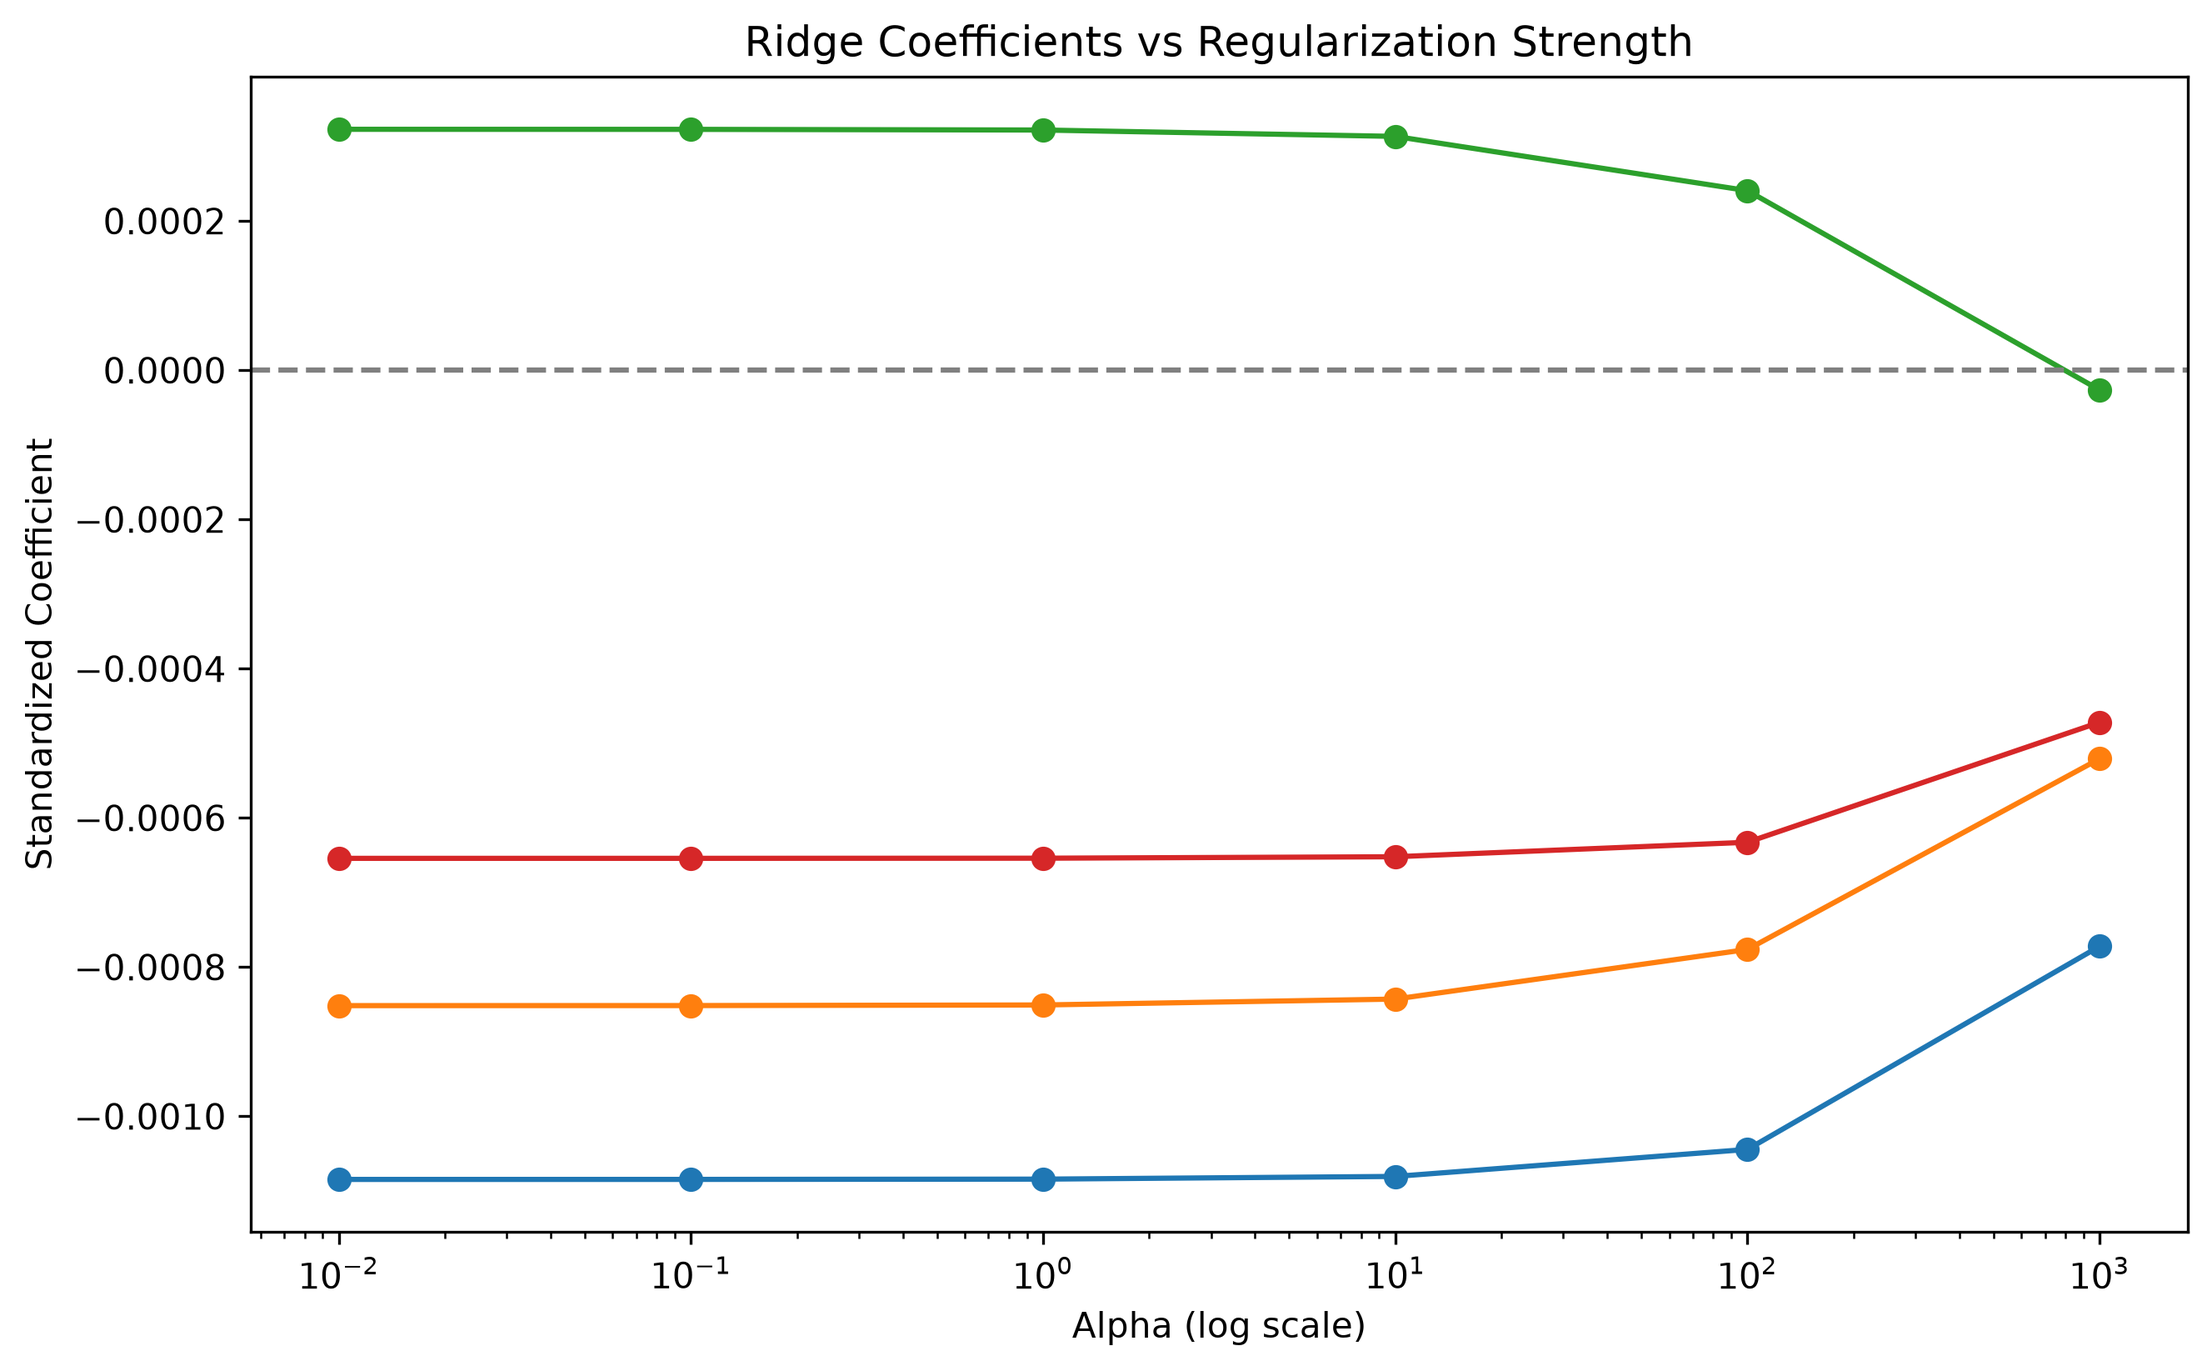
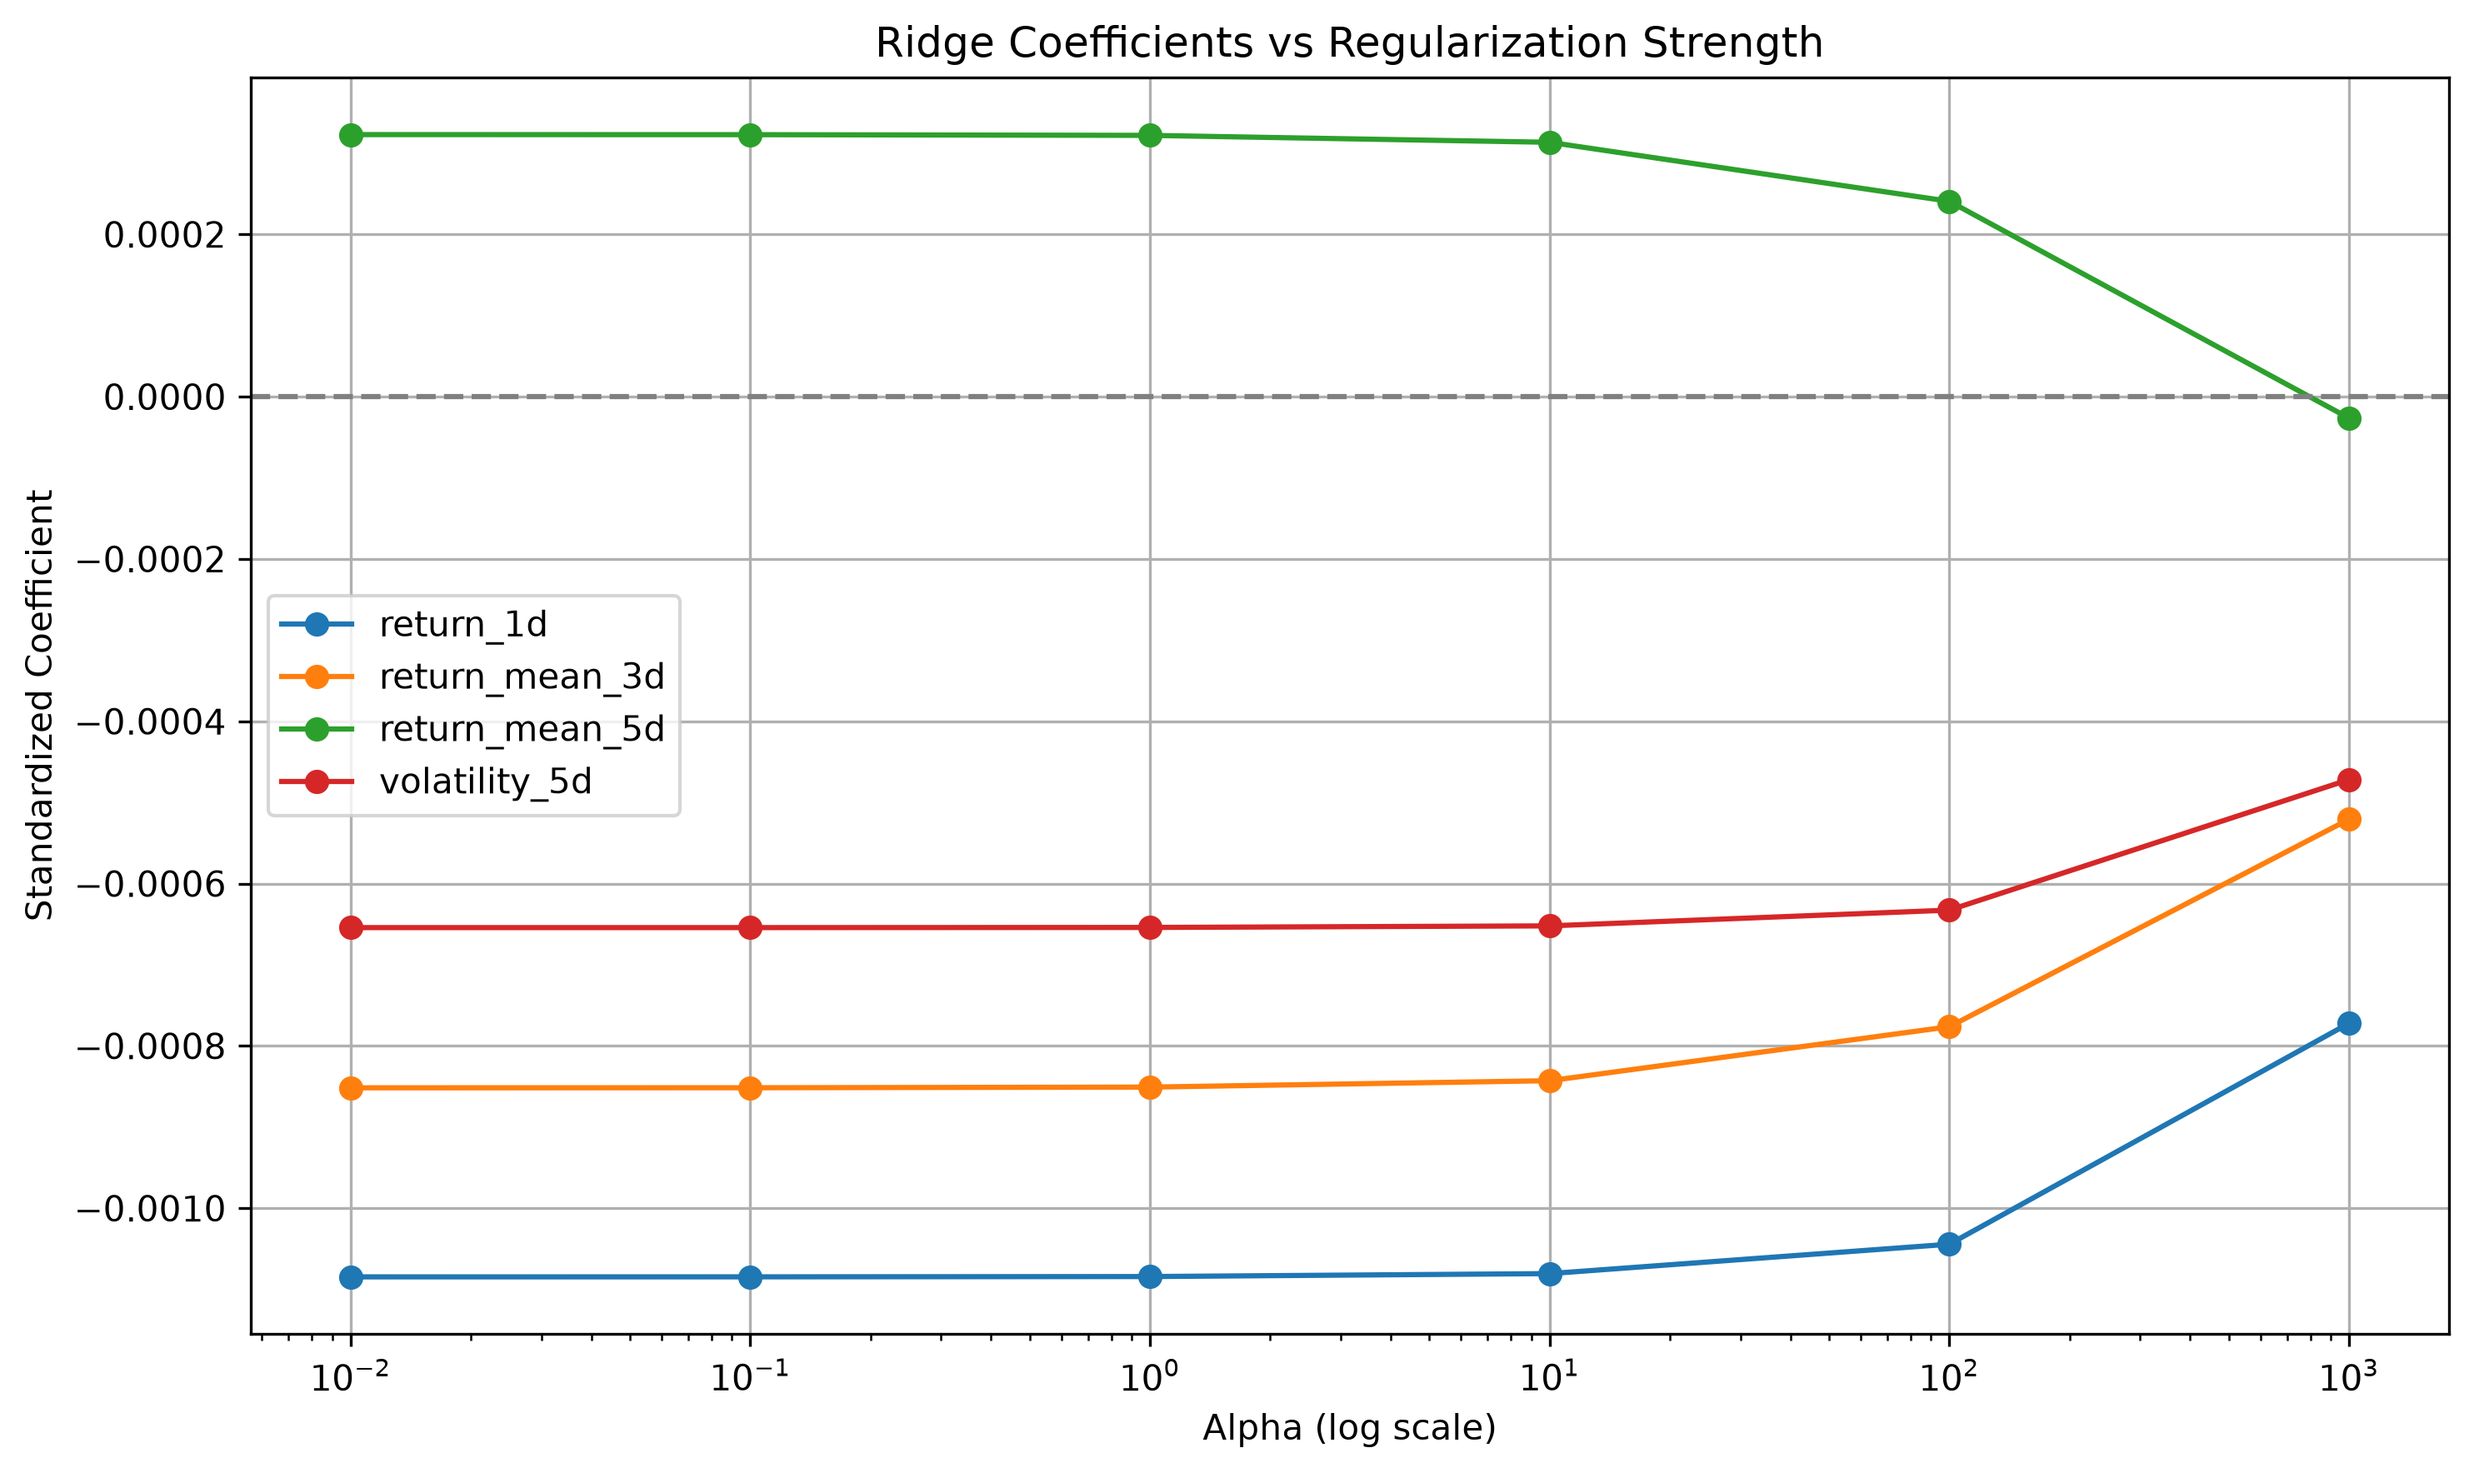
Fix visualization layout

diff --git a/src/visualization.py b/src/visualization.py
@@ -4,7 +4,7 @@ from features import prepare_data
 from sklearn.pipeline import Pipeline
 from sklearn.preprocessing import StandardScaler
 from sklearn.linear_model import Ridge
-
+#Figure1：
 X_train, y_train, X_test, y_test = prepare_data(keep_dates=True)
 
 model = Pipeline([
@@ -39,10 +39,10 @@ plt.savefig(
 # plt.show()
 
 
-
+#Figure2
 import numpy as np
 
-alphas = [0.01, 0.1, 1, 10, 100, 1000]
+alphas=[0.01, 0.1, 1, 10, 100, 1000]
 
 feature_names = [
     "return_1d",
@@ -51,29 +51,24 @@ feature_names = [
     "volatility_5d"
 ]
 
-coefficient_history = []
+coefficient_history=[]
 
 for alpha in alphas:
 
-    ridge_model = Pipeline([
+    ridge_model=Pipeline([
         ("scaler", StandardScaler()),
         ("ridge", Ridge(alpha=alpha))
     ])
 
     ridge_model.fit(X_train, y_train)
 
-    coefficients = ridge_model.named_steps["ridge"].coef_
+    coefficients=ridge_model.named_steps["ridge"].coef_
 
     coefficient_history.append(coefficients)
-
-coefficient_history = np.array(coefficient_history)
-
+coefficient_history=np.array(coefficient_history)
 print("Coefficient matrix shape:", coefficient_history.shape)
 print(coefficient_history)
-
-
 plt.figure(figsize=(10, 6))
-
 for i, feature in enumerate(feature_names):
 
     plt.plot(
@@ -90,151 +85,119 @@ plt.axhline(y=0, color="gray", linestyle="--")
 plt.title("Ridge Coefficients vs Regularization Strength")
 plt.xlabel("Alpha (log scale)")
 plt.ylabel("Standardized Coefficient")
+plt.legend()
+plt.grid(True)
+plt.tight_layout()
 plt.savefig(
     FIGURE_DIR / "ridge_coefficients.png",
     dpi=300,
     bbox_inches="tight"
 )
-plt.legend()
-plt.grid(True)
-plt.tight_layout()
 # plt.show()
 
-# ==========================================
-# Figure 3: Year-by-Year OOS R2
-# ==========================================
 
+
+#Figure3
 import pandas as pd
 from sklearn.metrics import mean_squared_error
 
-results = pd.DataFrame({
+results=pd.DataFrame({
     "Actual": y_test,
     "Predicted": y_pred
 }, index=X_test.index)
 
-results["Year"] = results.index.year
+results["Year"]=results.index.year
 
-years = []
-yearly_oos_r2 = []
+years=[]
+yearly_oos_r2=[]
 
 for year, group in results.groupby("Year"):
-
-    actual = group["Actual"].to_numpy()
-    predicted = group["Predicted"].to_numpy()
-
-    model_mse = mean_squared_error(actual, predicted)
-    baseline_mse = mean_squared_error(
+    actual=group["Actual"].to_numpy()
+    predicted=group["Predicted"].to_numpy()
+    model_mse=mean_squared_error(actual, predicted)
+    baseline_mse=mean_squared_error(
         actual, np.zeros_like(actual)
     )
 
-    oos_r2 = 1 - model_mse / baseline_mse
+    oos_r2=1 - model_mse / baseline_mse
 
     years.append(str(year))
     yearly_oos_r2.append(oos_r2 * 100)
 
-    print(f"{year}: OOS R2 = {oos_r2:.4%}")
+    print(f"{year}:OOS R2={oos_r2:.4%}")
 
 plt.figure(figsize=(9, 5))
-
 plt.bar(years, yearly_oos_r2)
-
 plt.axhline(y=0, color="black", linestyle="--")
-
 plt.title("AAPL: Year-by-Year Out-of-Sample R2")
 plt.xlabel("Year")
 plt.ylabel("OOS R2 (%)")
-
 plt.grid(axis="y", alpha=0.3)
 plt.tight_layout()
-
 plt.savefig(
     FIGURE_DIR / "yearly_oos_r2.png",
     dpi=300,
     bbox_inches="tight"
 )
 
-# ==========================================
-# Figure 4: Walk-Forward Performance
-# ==========================================
 
-# Combine training and test data
-X_all = pd.concat([X_train, X_test])
-y_all = np.concatenate([y_train, y_test])
 
-initial_train_size = len(X_train)
-step_size = 60
 
-walk_actual = []
-walk_predicted = []
 
+#Figure4
+X_all=pd.concat([X_train, X_test])
+y_all=np.concatenate([y_train, y_test])
+initial_train_size=len(X_train)
+step_size=60
+walk_actual=[]
+walk_predicted=[]
 for start in range(initial_train_size, len(X_all), step_size):
 
-    end = min(start + step_size, len(X_all))
+    end=min(start + step_size, len(X_all))
 
-    X_tr = X_all.iloc[:start]
-    y_tr = y_all[:start]
+    X_tr=X_all.iloc[:start]
+    y_tr=y_all[:start]
 
-    X_te = X_all.iloc[start:end]
-    y_te = y_all[start:end]
+    X_te=X_all.iloc[start:end]
+    y_te=y_all[start:end]
 
-    walk_model = Pipeline([
+    walk_model=Pipeline([
         ("scaler", StandardScaler()),
         ("ridge", Ridge(alpha=1000))
     ])
-
     walk_model.fit(X_tr, y_tr)
-
-    predictions = walk_model.predict(X_te)
-
+    predictions=walk_model.predict(X_te)
     walk_actual.extend(y_te)
     walk_predicted.extend(predictions)
 
-walk_actual = np.array(walk_actual)
-walk_predicted = np.array(walk_predicted)
-
-# Fixed model performance
-fixed_mse = mean_squared_error(y_test, y_pred)
-
-# Walk-forward model performance
-walk_mse = mean_squared_error(
+walk_actual=np.array(walk_actual)
+walk_predicted=np.array(walk_predicted)
+fixed_mse=mean_squared_error(y_test, y_pred)
+walk_mse=mean_squared_error(
     walk_actual, walk_predicted
 )
-
-baseline_mse = mean_squared_error(
+baseline_mse=mean_squared_error(
     y_test, np.zeros_like(y_test)
 )
-
-fixed_oos_r2 = 1 - fixed_mse / baseline_mse
-walk_oos_r2 = 1 - walk_mse / baseline_mse
-
+fixed_oos_r2=1-fixed_mse/baseline_mse
+walk_oos_r2=1-walk_mse/baseline_mse
 print("Fixed OOS R2:", fixed_oos_r2)
 print("Walk-Forward OOS R2:", walk_oos_r2)
-
-# Plot comparison
-methods = ["Fixed Ridge", "Walk-Forward Ridge"]
-
-scores = [
+methods=["Fixed Ridge", "Walk-Forward Ridge"]
+scores=[
     fixed_oos_r2 * 100,
     walk_oos_r2 * 100
 ]
-
 plt.figure(figsize=(9, 5))
-
 plt.bar(methods, scores)
-
 plt.axhline(y=0, color="black", linestyle="--")
-
 plt.title("Fixed vs Walk-Forward Ridge Regression")
 plt.ylabel("Out-of-Sample R2 (%)")
-
 plt.grid(axis="y", alpha=0.3)
 plt.tight_layout()
-
 plt.savefig(
     FIGURE_DIR / "walk_forward_comparison.png",
     dpi=300,
     bbox_inches="tight"
 )
-
-# Display all figures
 plt.show()
